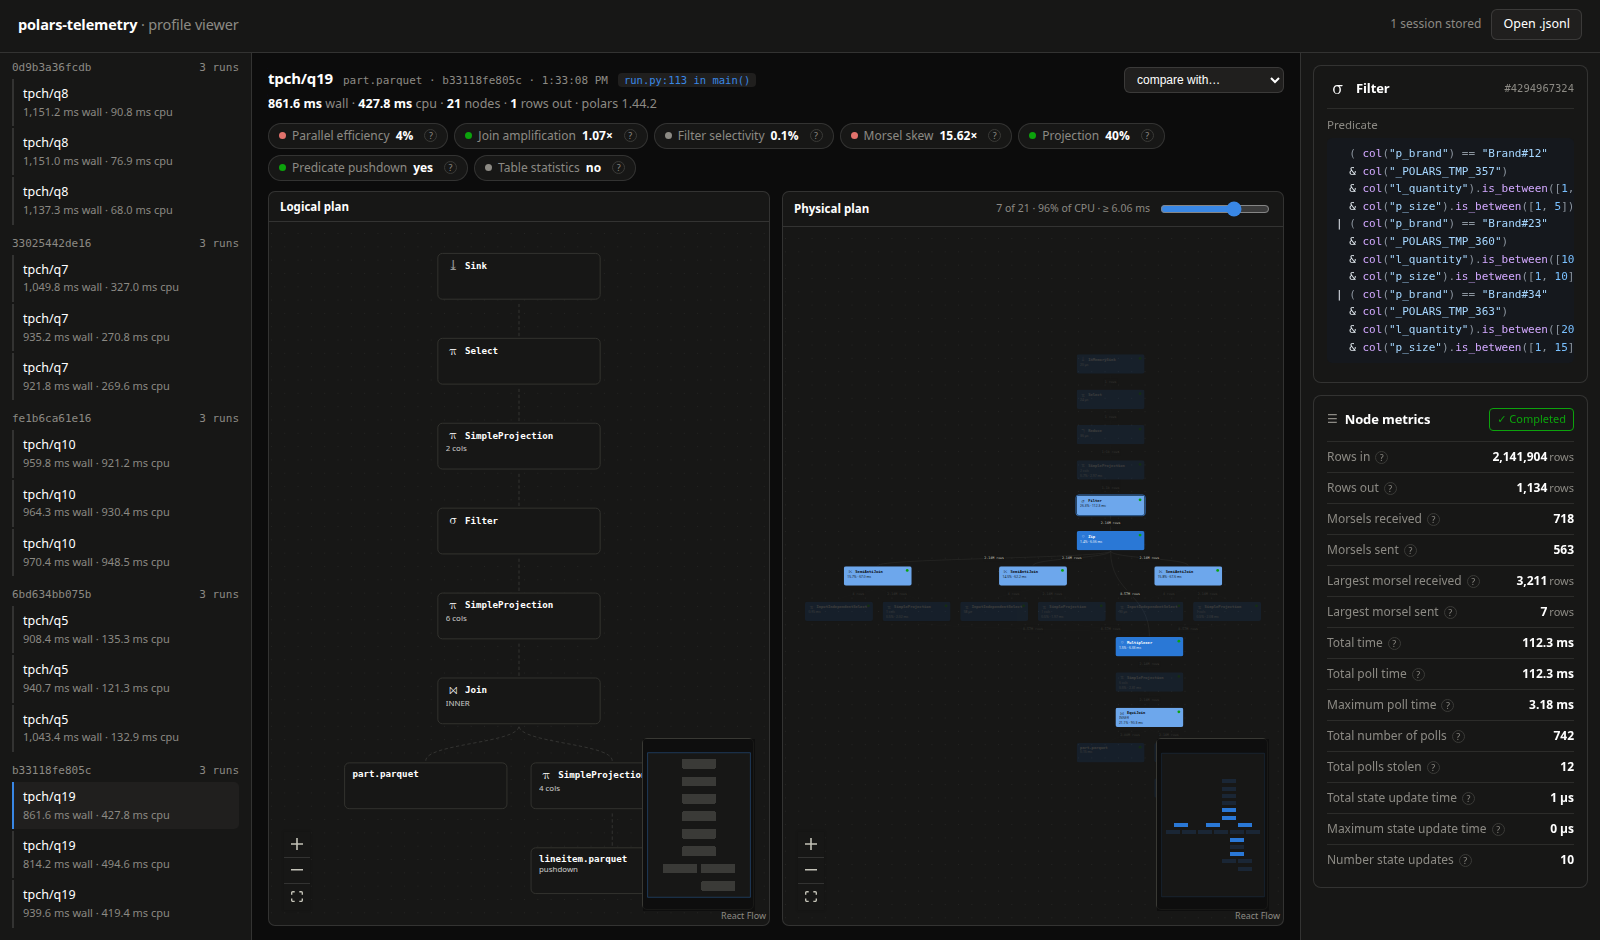
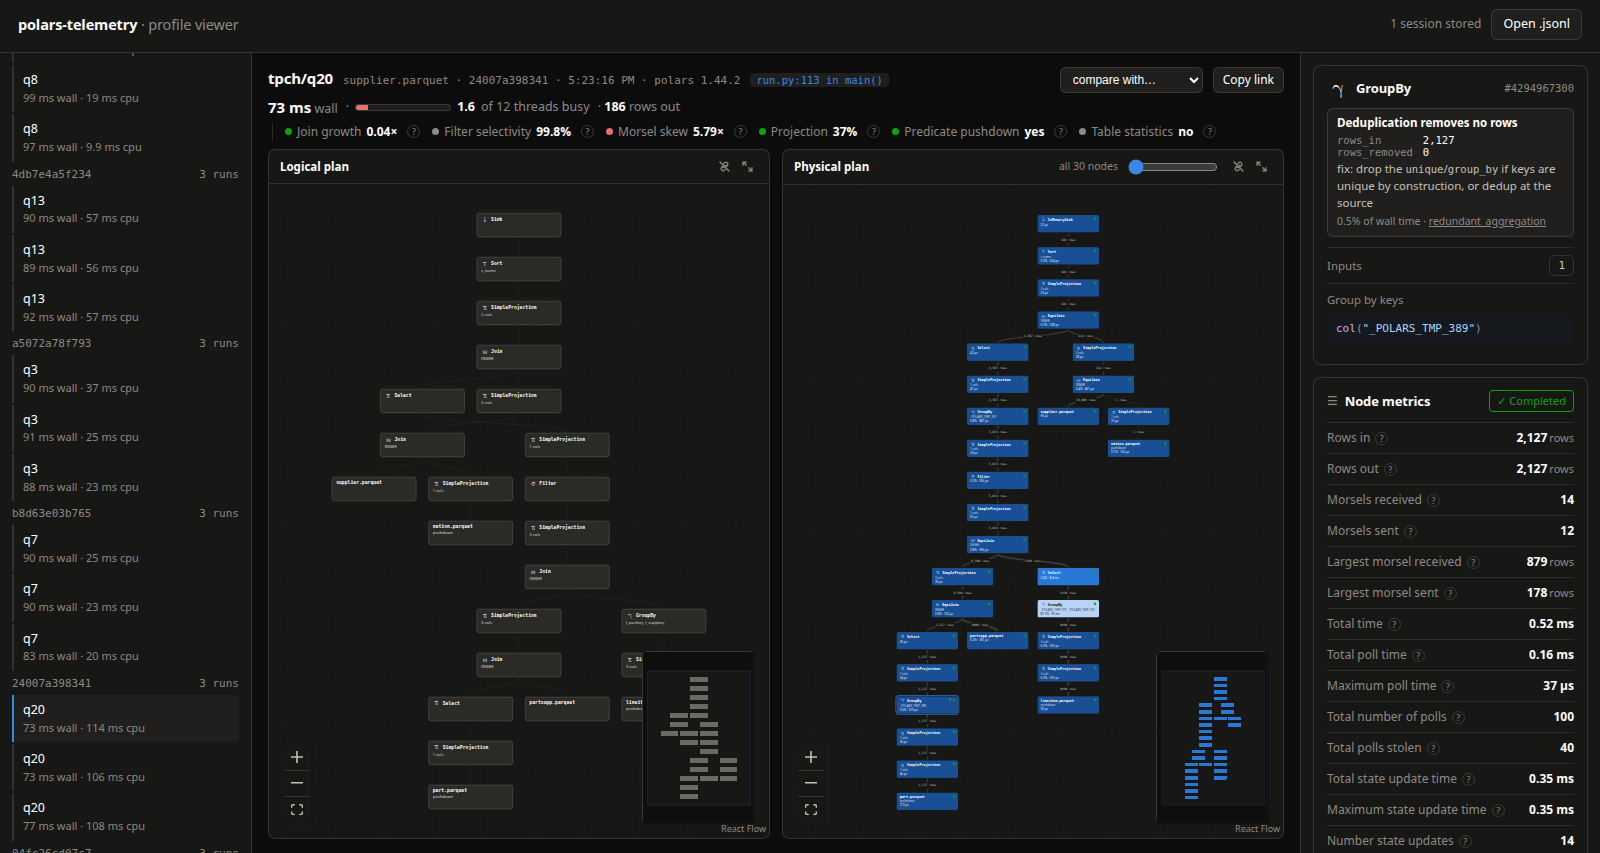
docs: refresh the viewer screenshot

diff --git a/README.md b/README.md
@@ -6,7 +6,7 @@ One span per query carrying the plan, and per-node counters as metrics, to any
 OTLP collector — or a profile file you open in your browser, with no collector
 at all.
 
-[![Both plans, per-node counters and diagnostics for one query in the profile viewer](https://raw.githubusercontent.com/jan-krueger/polars-telemetry/main/docs/assets/viewer.png)](https://jan-krueger.github.io/polars-telemetry/viewer/)
+[![Both plans of a TPC-H query, its figures and diagnostics, and a finding on the selected node in the profile viewer](https://raw.githubusercontent.com/jan-krueger/polars-telemetry/main/docs/assets/viewer.png)](https://jan-krueger.github.io/polars-telemetry/viewer/)
 
 > [!IMPORTANT]
 > **Unaffiliated with Polars and Polars Cloud.** This package attaches to an

diff --git a/docs/profile-viewer.md b/docs/profile-viewer.md
@@ -10,7 +10,7 @@ the page, or use **Open .jsonl**.
 requests of its own, except to fetch an example from this site when you ask for
 one.
 
-![Both plans, per-node counters and diagnostics for one query](assets/viewer.png)
+![Both plans of a TPC-H query, its figures and diagnostics, and a finding on the selected node](assets/viewer.png)
 
 ## Try it
 

diff --git a/docs/index.md b/docs/index.md
@@ -25,7 +25,7 @@ import polars_telemetry
 polars_telemetry.install()
 ```
 
-![Both plans, per-node counters and diagnostics for one query](assets/viewer.png)
+![Both plans of a TPC-H query, its figures and diagnostics, and a finding on the selected node](assets/viewer.png)
 
 ## What you get
 
